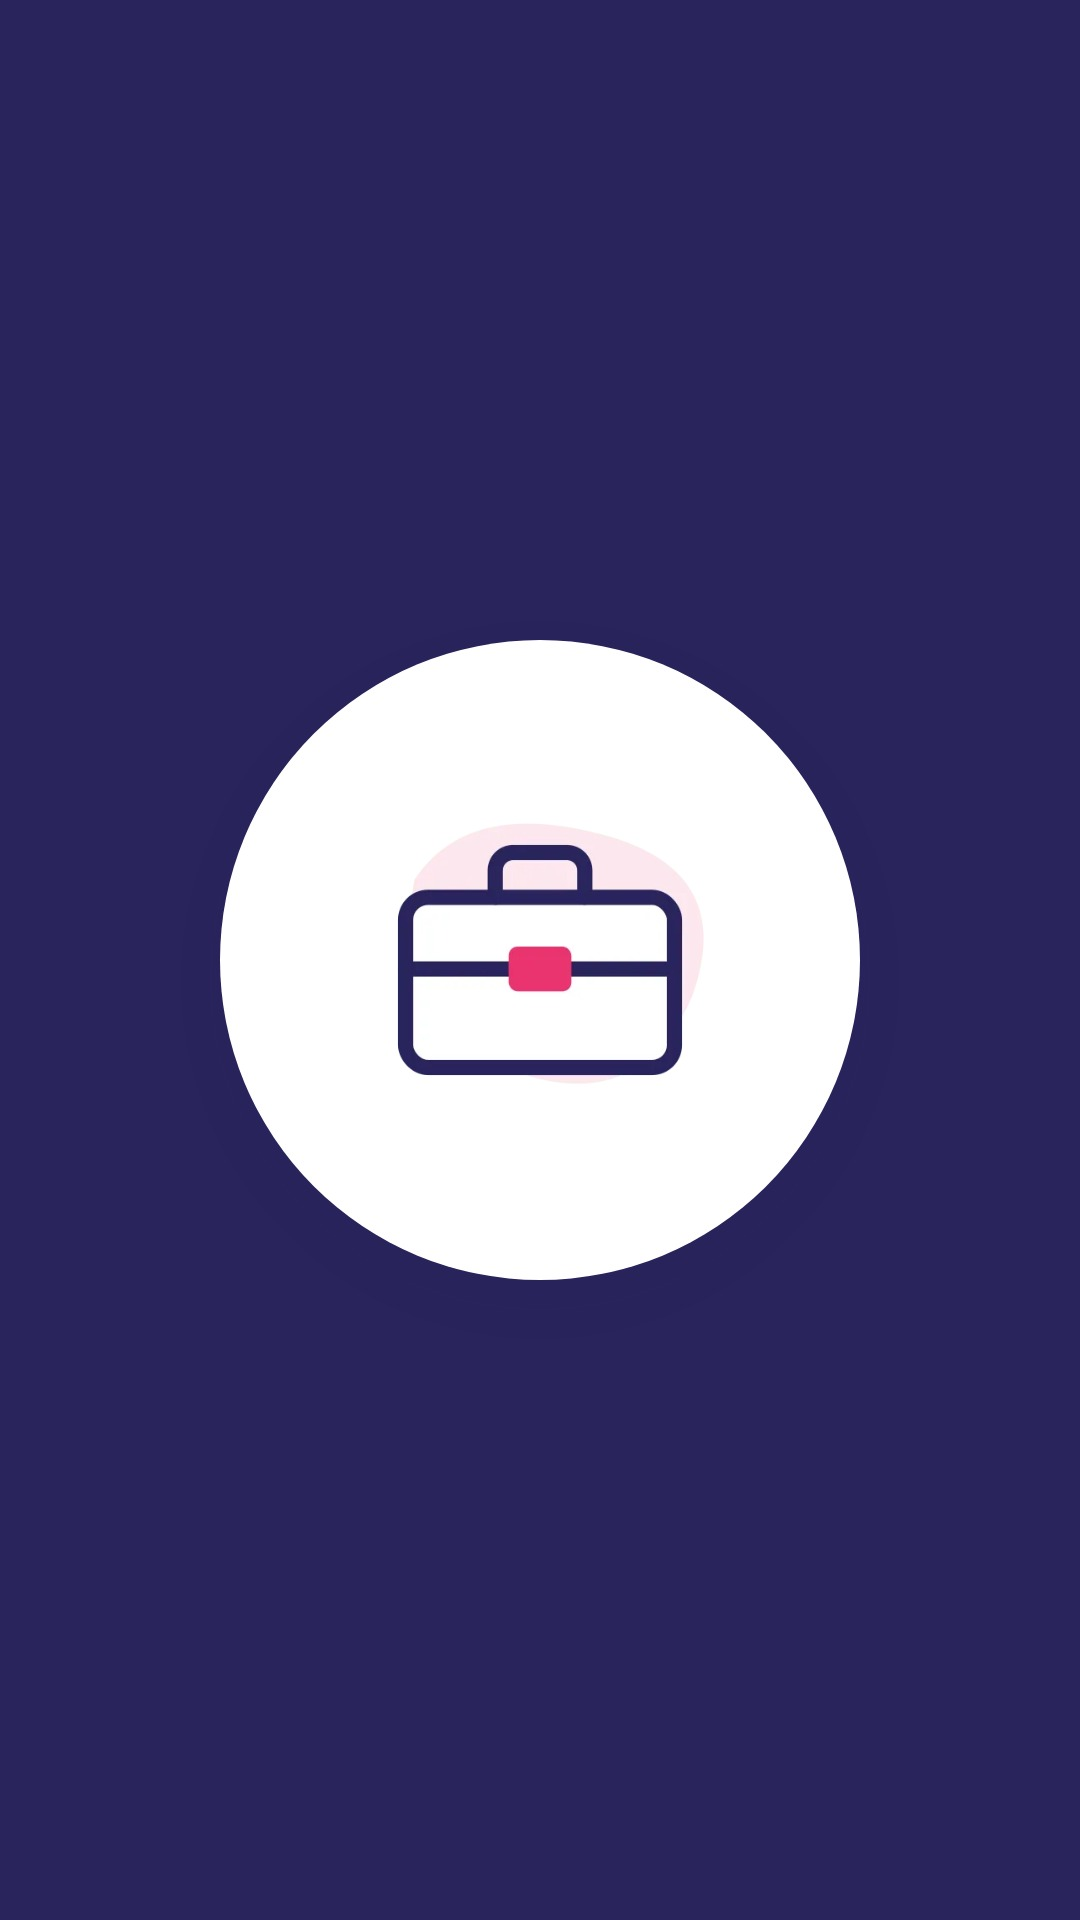
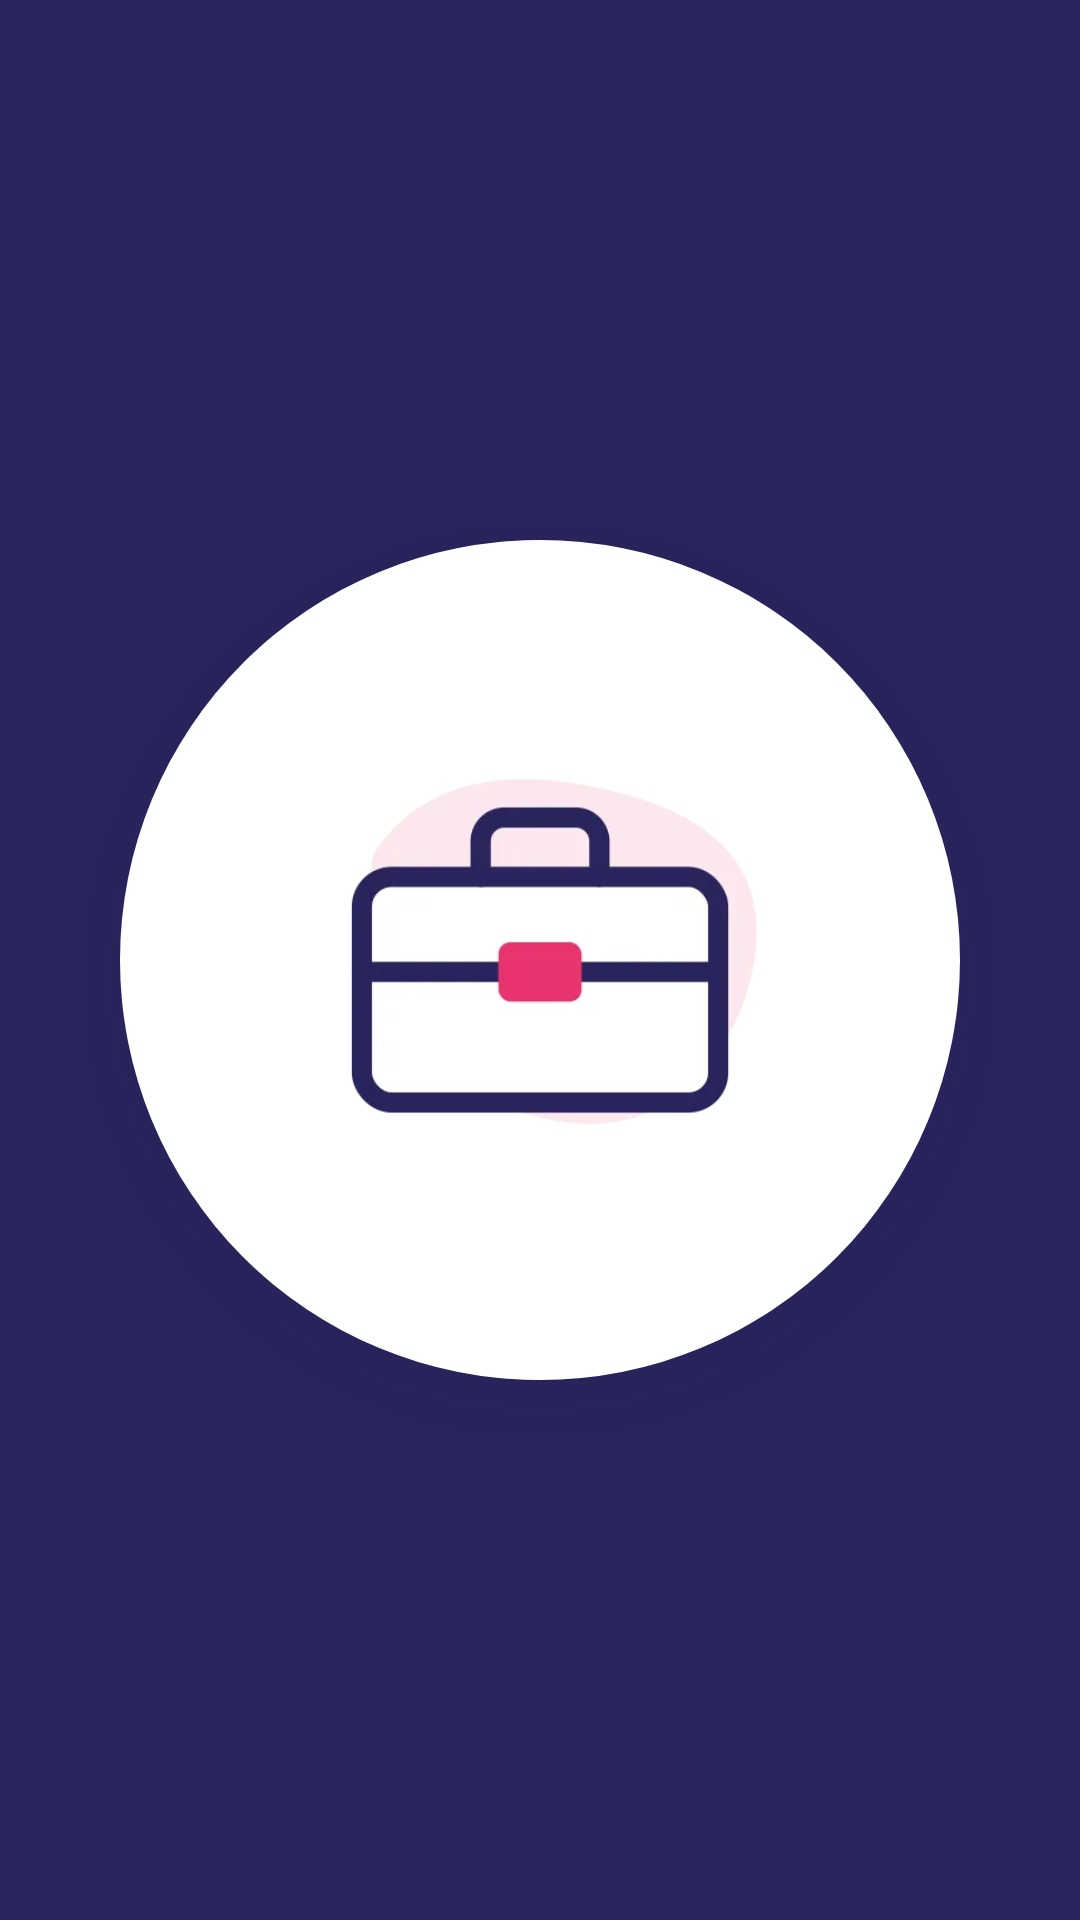
Couvertures à la une : picto plus grand
Claude-Session: https://claude.ai/code/session_01NBGakcBRwoq7RKRswmKrSM

Changed region(s): [[0.0917, 0.2812, 0.8861, 0.7188], [0.3056, 0.4062, 0.7028, 0.5938]]

diff --git a/tools/visuels/stories/cover-canada.html b/tools/visuels/stories/cover-canada.html
@@ -1,5 +1,5 @@
-<html><head><link rel=stylesheet href=base.css></head><body><div style="width:1080px;height:1920px;background:#29245c;display:grid;place-items:center"><div style="width:640px;height:640px;border-radius:50%;background:#fff;display:grid;place-items:center;box-shadow:0 20px 50px rgba(41,36,92,.08)">
-<svg width="430" height="430" viewBox="0 0 512 512">
+<html><head><link rel=stylesheet href=base.css></head><body><div style="width:1080px;height:1920px;background:#29245c;display:grid;place-items:center"><div style="width:840px;height:840px;border-radius:50%;background:#fff;display:grid;place-items:center;box-shadow:0 20px 50px rgba(41,36,92,.08)">
+<svg width="570" height="570" viewBox="0 0 512 512">
 <path d="M150 120 C 230 40, 400 70, 410 190 C 420 300, 330 430, 220 410 C 110 390, 70 200, 150 120 Z" fill="#fde6ee"/>
 <path d="M256 470 C 256 470 120 330 120 220 A 136 136 0 0 1 392 220 C 392 330 256 470 256 470 Z" fill="none" stroke="#29245c" stroke-width="22" stroke-linejoin="round"/>
 <g transform="translate(256 222) scale(2.5) translate(-50 -42)"><path d="M50.0,8.0 L55.5,20.0 L62.0,16.5 L59.5,33.0 L70.0,23.5 L72.0,29.0 L83.0,27.0 L78.0,39.5 L85.0,43.0 L68.5,56.0 L71.0,63.5 L53.5,60.5 L53.5,76.0 L46.5,76.0 L46.5,60.5 L29.0,63.5 L31.5,56.0 L15.0,43.0 L22.0,39.5 L17.0,27.0 L28.0,29.0 L30.0,23.5 L40.5,33.0 L38.0,16.5 L44.5,20.0 Z" fill="#ea346f" stroke="#ea346f" stroke-width="3" stroke-linejoin="round"/></g>

diff --git a/tools/visuels/stories/cover-installation.html b/tools/visuels/stories/cover-installation.html
@@ -1,1 +1,1 @@
-<html><head><link rel=stylesheet href=base.css></head><body><div style="width:1080px;height:1920px;background:#29245c;display:grid;place-items:center"><div style="width:640px;height:640px;border-radius:50%;background:#fff;display:grid;place-items:center;box-shadow:0 20px 50px rgba(41,36,92,.08)"><img src="p-logement-installation-4-1.webp" style="width:430px"></div></div></body></html>
+<html><head><link rel=stylesheet href=base.css></head><body><div style="width:1080px;height:1920px;background:#29245c;display:grid;place-items:center"><div style="width:840px;height:840px;border-radius:50%;background:#fff;display:grid;place-items:center;box-shadow:0 20px 50px rgba(41,36,92,.08)"><img src="p-logement-installation-4-1.webp" style="width:570px"></div></div></body></html>

diff --git a/tools/visuels/stories/cover-permis.html b/tools/visuels/stories/cover-permis.html
@@ -1,1 +1,1 @@
-<html><head><link rel=stylesheet href=base.css></head><body><div style="width:1080px;height:1920px;background:#29245c;display:grid;place-items:center"><div style="width:640px;height:640px;border-radius:50%;background:#fff;display:grid;place-items:center;box-shadow:0 20px 50px rgba(41,36,92,.08)"><img src="p-dossier-immigration-8-1.webp" style="width:430px"></div></div></body></html>
+<html><head><link rel=stylesheet href=base.css></head><body><div style="width:1080px;height:1920px;background:#29245c;display:grid;place-items:center"><div style="width:840px;height:840px;border-radius:50%;background:#fff;display:grid;place-items:center;box-shadow:0 20px 50px rgba(41,36,92,.08)"><img src="p-dossier-immigration-8-1.webp" style="width:570px"></div></div></body></html>

diff --git a/tools/visuels/stories/cover-confiance.html b/tools/visuels/stories/cover-confiance.html
@@ -1,1 +1,1 @@
-<html><head><link rel=stylesheet href=base.css></head><body><div style="width:1080px;height:1920px;background:#29245c;display:grid;place-items:center"><div style="width:640px;height:640px;border-radius:50%;background:#fff;display:grid;place-items:center;box-shadow:0 20px 50px rgba(41,36,92,.08)"><img src="p-agence-certifiee-6-1.webp" style="width:430px"></div></div></body></html>
+<html><head><link rel=stylesheet href=base.css></head><body><div style="width:1080px;height:1920px;background:#29245c;display:grid;place-items:center"><div style="width:840px;height:840px;border-radius:50%;background:#fff;display:grid;place-items:center;box-shadow:0 20px 50px rgba(41,36,92,.08)"><img src="p-agence-certifiee-6-1.webp" style="width:570px"></div></div></body></html>

diff --git a/tools/visuels/stories/cover-postuler.html b/tools/visuels/stories/cover-postuler.html
@@ -1,1 +1,1 @@
-<html><head><link rel=stylesheet href=base.css></head><body><div style="width:1080px;height:1920px;background:#29245c;display:grid;place-items:center"><div style="width:640px;height:640px;border-radius:50%;background:#fff;display:grid;place-items:center;box-shadow:0 20px 50px rgba(41,36,92,.08)"><img src="p-candidat-profil-2-1.webp" style="width:430px"></div></div></body></html>
+<html><head><link rel=stylesheet href=base.css></head><body><div style="width:1080px;height:1920px;background:#29245c;display:grid;place-items:center"><div style="width:840px;height:840px;border-radius:50%;background:#fff;display:grid;place-items:center;box-shadow:0 20px 50px rgba(41,36,92,.08)"><img src="p-candidat-profil-2-1.webp" style="width:570px"></div></div></body></html>

diff --git a/tools/visuels/stories/cover-qui.html b/tools/visuels/stories/cover-qui.html
@@ -1,1 +1,1 @@
-<html><head><link rel=stylesheet href=base.css></head><body><div style="width:1080px;height:1920px;background:#29245c;display:grid;place-items:center"><div style="width:640px;height:640px;border-radius:50%;background:#fff;display:grid;place-items:center;box-shadow:0 20px 50px rgba(41,36,92,.08)"><img src="p-charge-de-projet-1.webp" style="width:430px"></div></div></body></html>
+<html><head><link rel=stylesheet href=base.css></head><body><div style="width:1080px;height:1920px;background:#29245c;display:grid;place-items:center"><div style="width:840px;height:840px;border-radius:50%;background:#fff;display:grid;place-items:center;box-shadow:0 20px 50px rgba(41,36,92,.08)"><img src="p-charge-de-projet-1.webp" style="width:570px"></div></div></body></html>

diff --git a/tools/visuels/stories/cover-offres.html b/tools/visuels/stories/cover-offres.html
@@ -1,1 +1,1 @@
-<html><head><link rel=stylesheet href=base.css></head><body><div style="width:1080px;height:1920px;background:#29245c;display:grid;place-items:center"><div style="width:640px;height:640px;border-radius:50%;background:#fff;display:grid;place-items:center;box-shadow:0 20px 50px rgba(41,36,92,.08)"><img src="p-le-poste-6-1.webp" style="width:430px"></div></div></body></html>
+<html><head><link rel=stylesheet href=base.css></head><body><div style="width:1080px;height:1920px;background:#29245c;display:grid;place-items:center"><div style="width:840px;height:840px;border-radius:50%;background:#fff;display:grid;place-items:center;box-shadow:0 20px 50px rgba(41,36,92,.08)"><img src="p-le-poste-6-1.webp" style="width:570px"></div></div></body></html>
